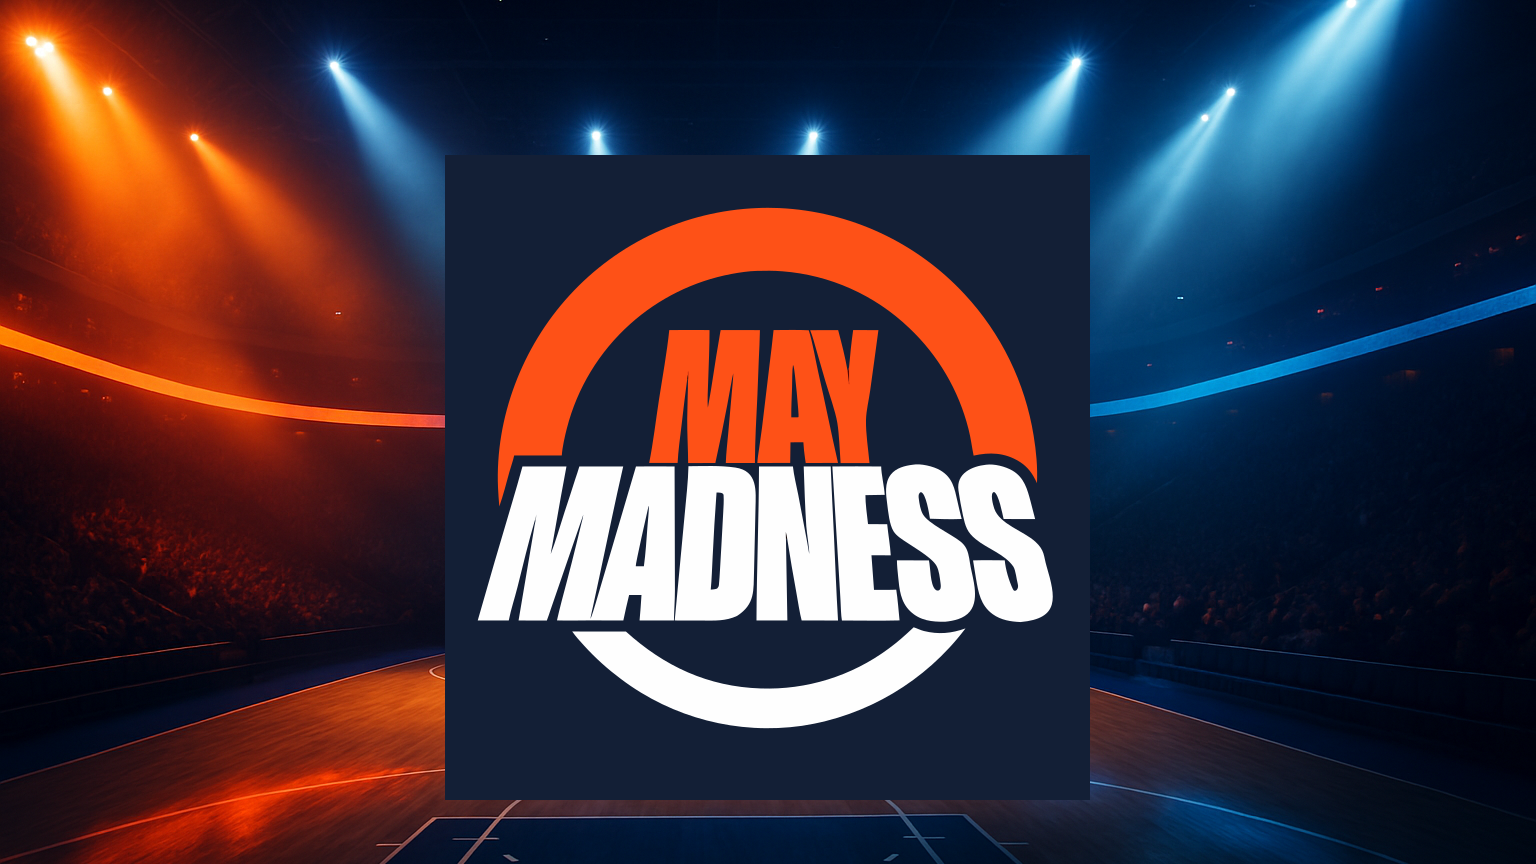
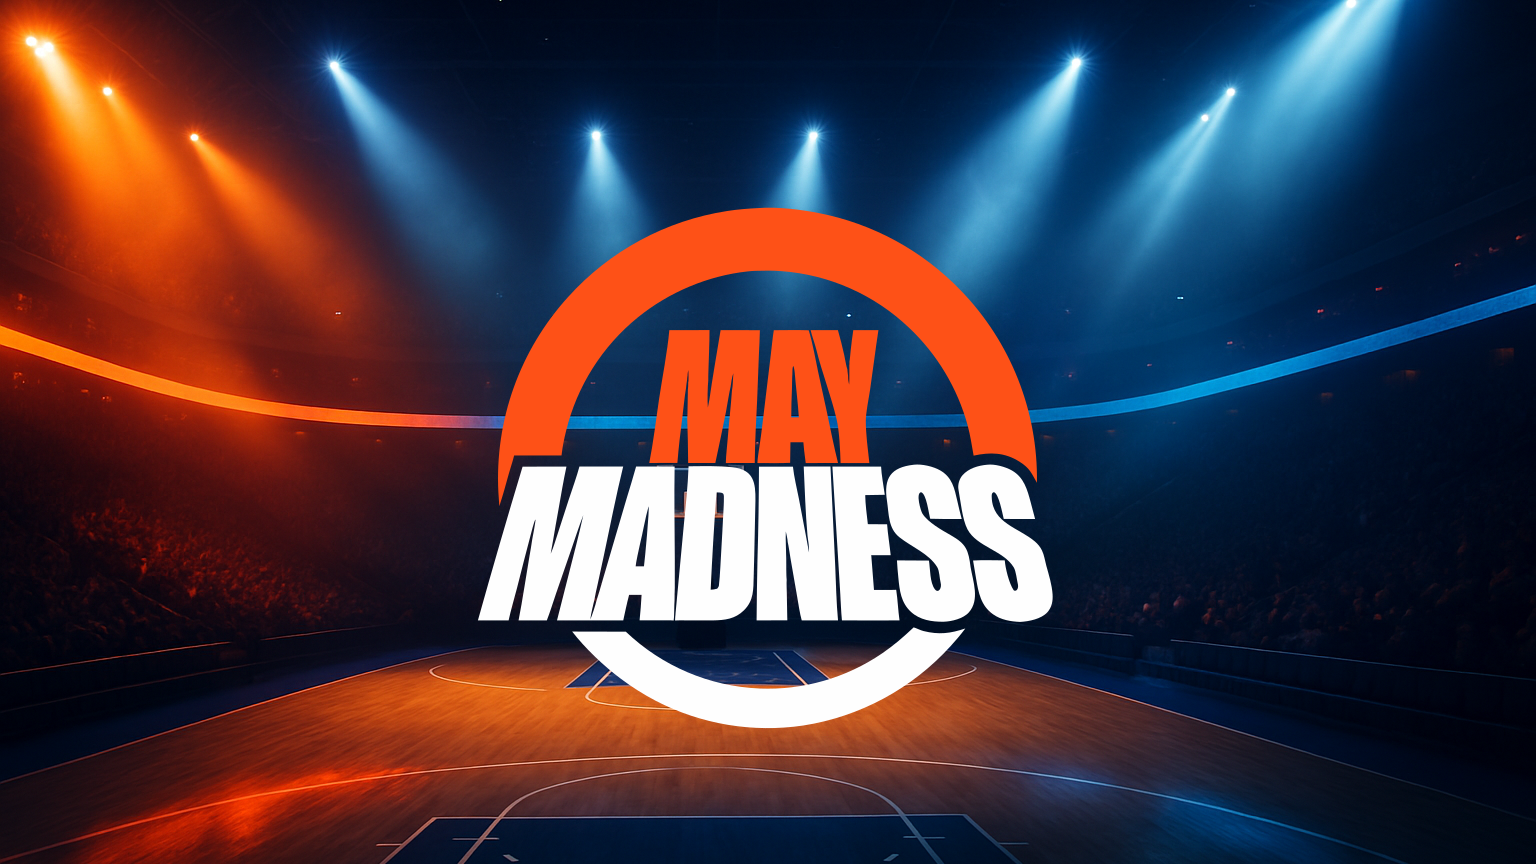
Update May Madness creative assets and campaign manifest

Changed region(s): [[0.2812, 0.1562, 0.7188, 0.5625], [0.2812, 0.6562, 0.7188, 0.9375], [0.4375, 0.5625, 0.4688, 0.625]]

diff --git a/integrations/google_drive.py b/integrations/google_drive.py
@@ -87,15 +87,16 @@ def download_file(file_id, destination):
 
 
 if __name__ == "__main__":
-    MANIFEST_FILE_ID = "1HiauUbwT8fqnOMTL9T8uyJyWCXDhcQuk"
+    LOGO_FILE_ID = "1JQjp8PfBYKiEmbgZbpBK-1fYguZEPqZb"
 
     destination = (
         PROJECT_ROOT
         / "data"
-        / "may_madness_campaign_manifest.json"
+        / "assets"
+        / "may_madness_logo.svg"
     )
 
-    downloaded = download_file(MANIFEST_FILE_ID, destination)
+    downloaded = download_file(LOGO_FILE_ID, destination)
 
-    print("\nUpdated campaign manifest downloaded:")
+    print("\nUpdated campaign logo downloaded:")
     print(downloaded)
